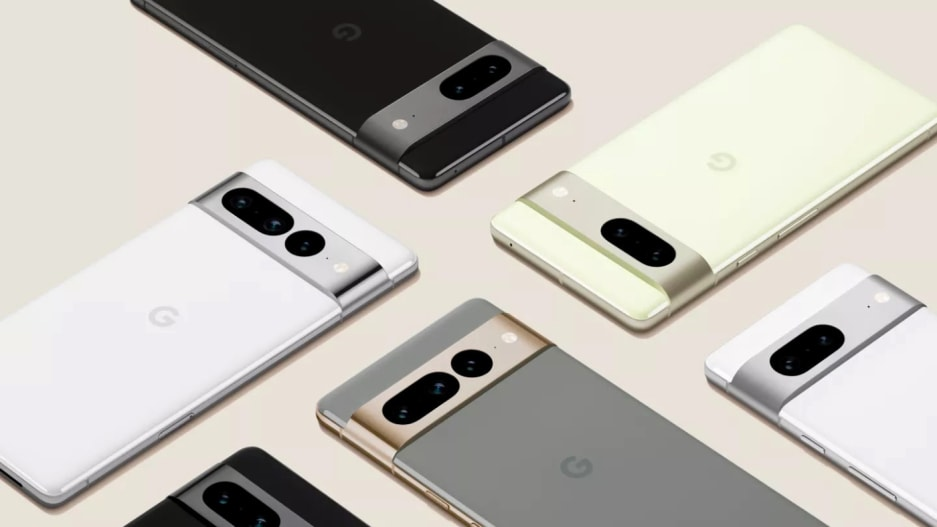
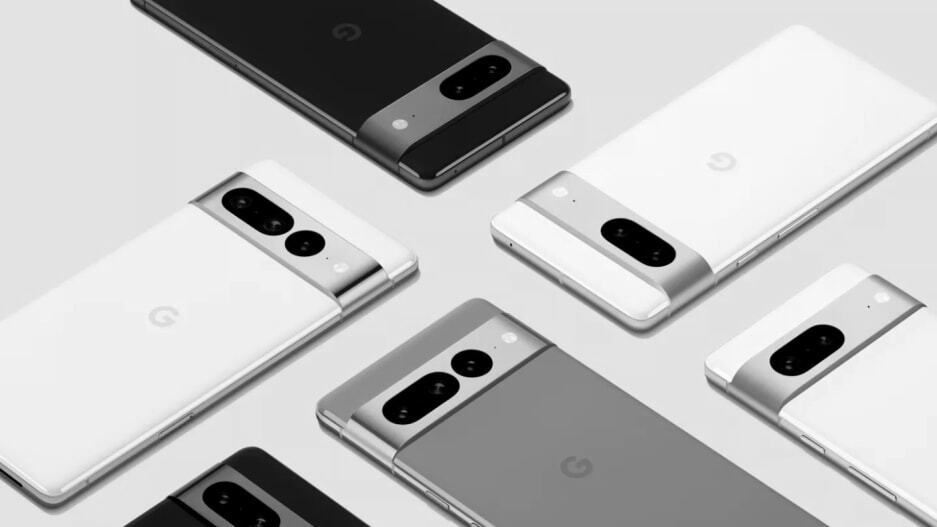
mostly done

diff --git a/final-website/aboutus.html b/final-website/aboutus.html
@@ -33,15 +33,15 @@
 <body>
   <section>
     <header>
-      <h1><a href="index.html">Wired In</a></h1>
+      <h1><a href="index.html" title="logo that links to the home page">Wired In</a></h1>
         <nav>
-    <ul>
-      <li><a href="index.html">Home</a></li>
-      <li><a href="videos.html">Videos</a></li>
-      <li><a href="podcast.html">Podcast</a></li>
-      <li><a href="aboutus.html">History</a></li>
-      <li><a href="contact.html">Contact</a></li>
-    </ul>
+          <ul>
+            <li><a href="index.html" title="link to the home page">Home</a></li>
+            <li><a href="videos.html" title="link to the videos page">Videos</a></li>
+            <li><a href="podcast.html" title="link to the podcast page">Podcast</a></li>
+            <li><a href="aboutus.html" title="link to the history page">History</a></li>
+            <li><a href="contact.html" title="link to the contact page">Contact</a></li>
+          </ul>
   </nav>
       </header>
       <section itemscope itemtype="http://schema.org/Event" itemref="_description2" class="headtitle">

diff --git a/final-website/contact.html b/final-website/contact.html
@@ -33,15 +33,15 @@
 <body>
   <section>
     <header>
-      <h1><a href="index.html">Wired In</a></h1>
+      <h1><a href="index.html" title="logo that links to the home page">Wired In</a></h1>
         <nav>
-    <ul>
-      <li><a href="index.html">Home</a></li>
-      <li><a href="videos.html">Videos</a></li>
-      <li><a href="podcast.html">Podcast</a></li>
-      <li><a href="aboutus.html">History</a></li>
-      <li><a href="contact.html">Contact</a></li>
-    </ul>
+          <ul>
+            <li><a href="index.html" title="link to the home page">Home</a></li>
+            <li><a href="videos.html" title="link to the videos page">Videos</a></li>
+            <li><a href="podcast.html" title="link to the podcast page">Podcast</a></li>
+            <li><a href="aboutus.html" title="link to the history page">History</a></li>
+            <li><a href="contact.html" title="link to the contact page">Contact</a></li>
+          </ul>
   </nav>
       </header>
       <section class="headtitle">

diff --git a/final-website/podcast.html b/final-website/podcast.html
@@ -33,15 +33,15 @@
 <body>
   <section>
     <header>
-      <h1><a href="index.html">Wired In</a></h1>
+      <h1><a href="index.html" title="logo that links to the home page">Wired In</a></h1>
         <nav>
-    <ul>
-      <li><a href="index.html">Home</a></li>
-      <li><a href="videos.html">Videos</a></li>
-      <li><a href="podcast.html">Podcast</a></li>
-      <li><a href="aboutus.html">History</a></li>
-      <li><a href="contact.html">Contact</a></li>
-    </ul>
+          <ul>
+            <li><a href="index.html" title="link to the home page">Home</a></li>
+            <li><a href="videos.html" title="link to the videos page">Videos</a></li>
+            <li><a href="podcast.html" title="link to the podcast page">Podcast</a></li>
+            <li><a href="aboutus.html" title="link to the history page">History</a></li>
+            <li><a href="contact.html" title="link to the contact page">Contact</a></li>
+          </ul>
   </nav>
       </header>
       <section class="headtitle">

diff --git a/final-website/videos.html b/final-website/videos.html
@@ -33,15 +33,15 @@
 <body>
   <section>
     <header>
-      <h1><a href="index.html">Wired In</a></h1>
+      <h1><a href="index.html" title="logo that links to the home page">Wired In</a></h1>
         <nav>
-    <ul>
-      <li><a href="index.html">Home</a></li>
-      <li><a href="videos.html">Videos</a></li>
-      <li><a href="podcast.html">Podcast</a></li>
-      <li><a href="aboutus.html">History</a></li>
-      <li><a href="contact.html">Contact</a></li>
-    </ul>
+          <ul>
+            <li><a href="index.html" title="link to the home page">Home</a></li>
+            <li><a href="videos.html" title="link to the videos page">Videos</a></li>
+            <li><a href="podcast.html" title="link to the podcast page">Podcast</a></li>
+            <li><a href="aboutus.html" title="link to the history page">History</a></li>
+            <li><a href="contact.html" title="link to the contact page">Contact</a></li>
+          </ul>
   </nav>
       </header>
       <section class="grid">

diff --git a/final-website/index.html b/final-website/index.html
@@ -33,14 +33,14 @@
 <body>
   <section>
     <header>
-      <h1><a href="index.html">Wired In</a></h1>
+      <h1><a href="index.html" title="logo that links to the home page">Wired In</a></h1>
         <nav>
     <ul>
-      <li><a href="index.html">Home</a></li>
-      <li><a href="videos.html">Videos</a></li>
-      <li><a href="podcast.html">Podcast</a></li>
-      <li><a href="aboutus.html">History</a></li>
-      <li><a href="contact.html">Contact</a></li>
+      <li><a href="index.html" title="link to the home page">Home</a></li>
+      <li><a href="videos.html" title="link to the videos page">Videos</a></li>
+      <li><a href="podcast.html" title="link to the podcast page">Podcast</a></li>
+      <li><a href="aboutus.html" title="link to the history page">History</a></li>
+      <li><a href="contact.html" title="link to the contact page">Contact</a></li>
     </ul>
   </nav>
       </header>

diff --git a/final-website/assets/css/style.scss b/final-website/assets/css/style.scss
@@ -27,6 +27,14 @@ p {
 img {
   width: 100%;
   object-fit: cover;
+      /* filter: url(filters.svg#grayscale); Firefox 3.5+ */
+      filter: gray; /* IE5+ */
+      -webkit-filter: grayscale(1); /* Webkit Nightlies & Chrome Canary */
+      -webkit-transition: all .5s ease-in-out;  
+      &:hover {
+        filter: none;
+          -webkit-filter: grayscale(0);
+        }
 }
 
 video {

diff --git a/final-website/assets/css/style.css b/final-website/assets/css/style.css
@@ -19,6 +19,14 @@ img {
   width: 100%;
   -o-object-fit: cover;
      object-fit: cover;
+  /* filter: url(filters.svg#grayscale); Firefox 3.5+ */
+  filter: gray; /* IE5+ */
+  -webkit-filter: grayscale(1); /* Webkit Nightlies & Chrome Canary */
+  -webkit-transition: all 0.5s ease-in-out;
+}
+img:hover {
+  filter: none;
+  -webkit-filter: grayscale(0);
 }
 
 video {
